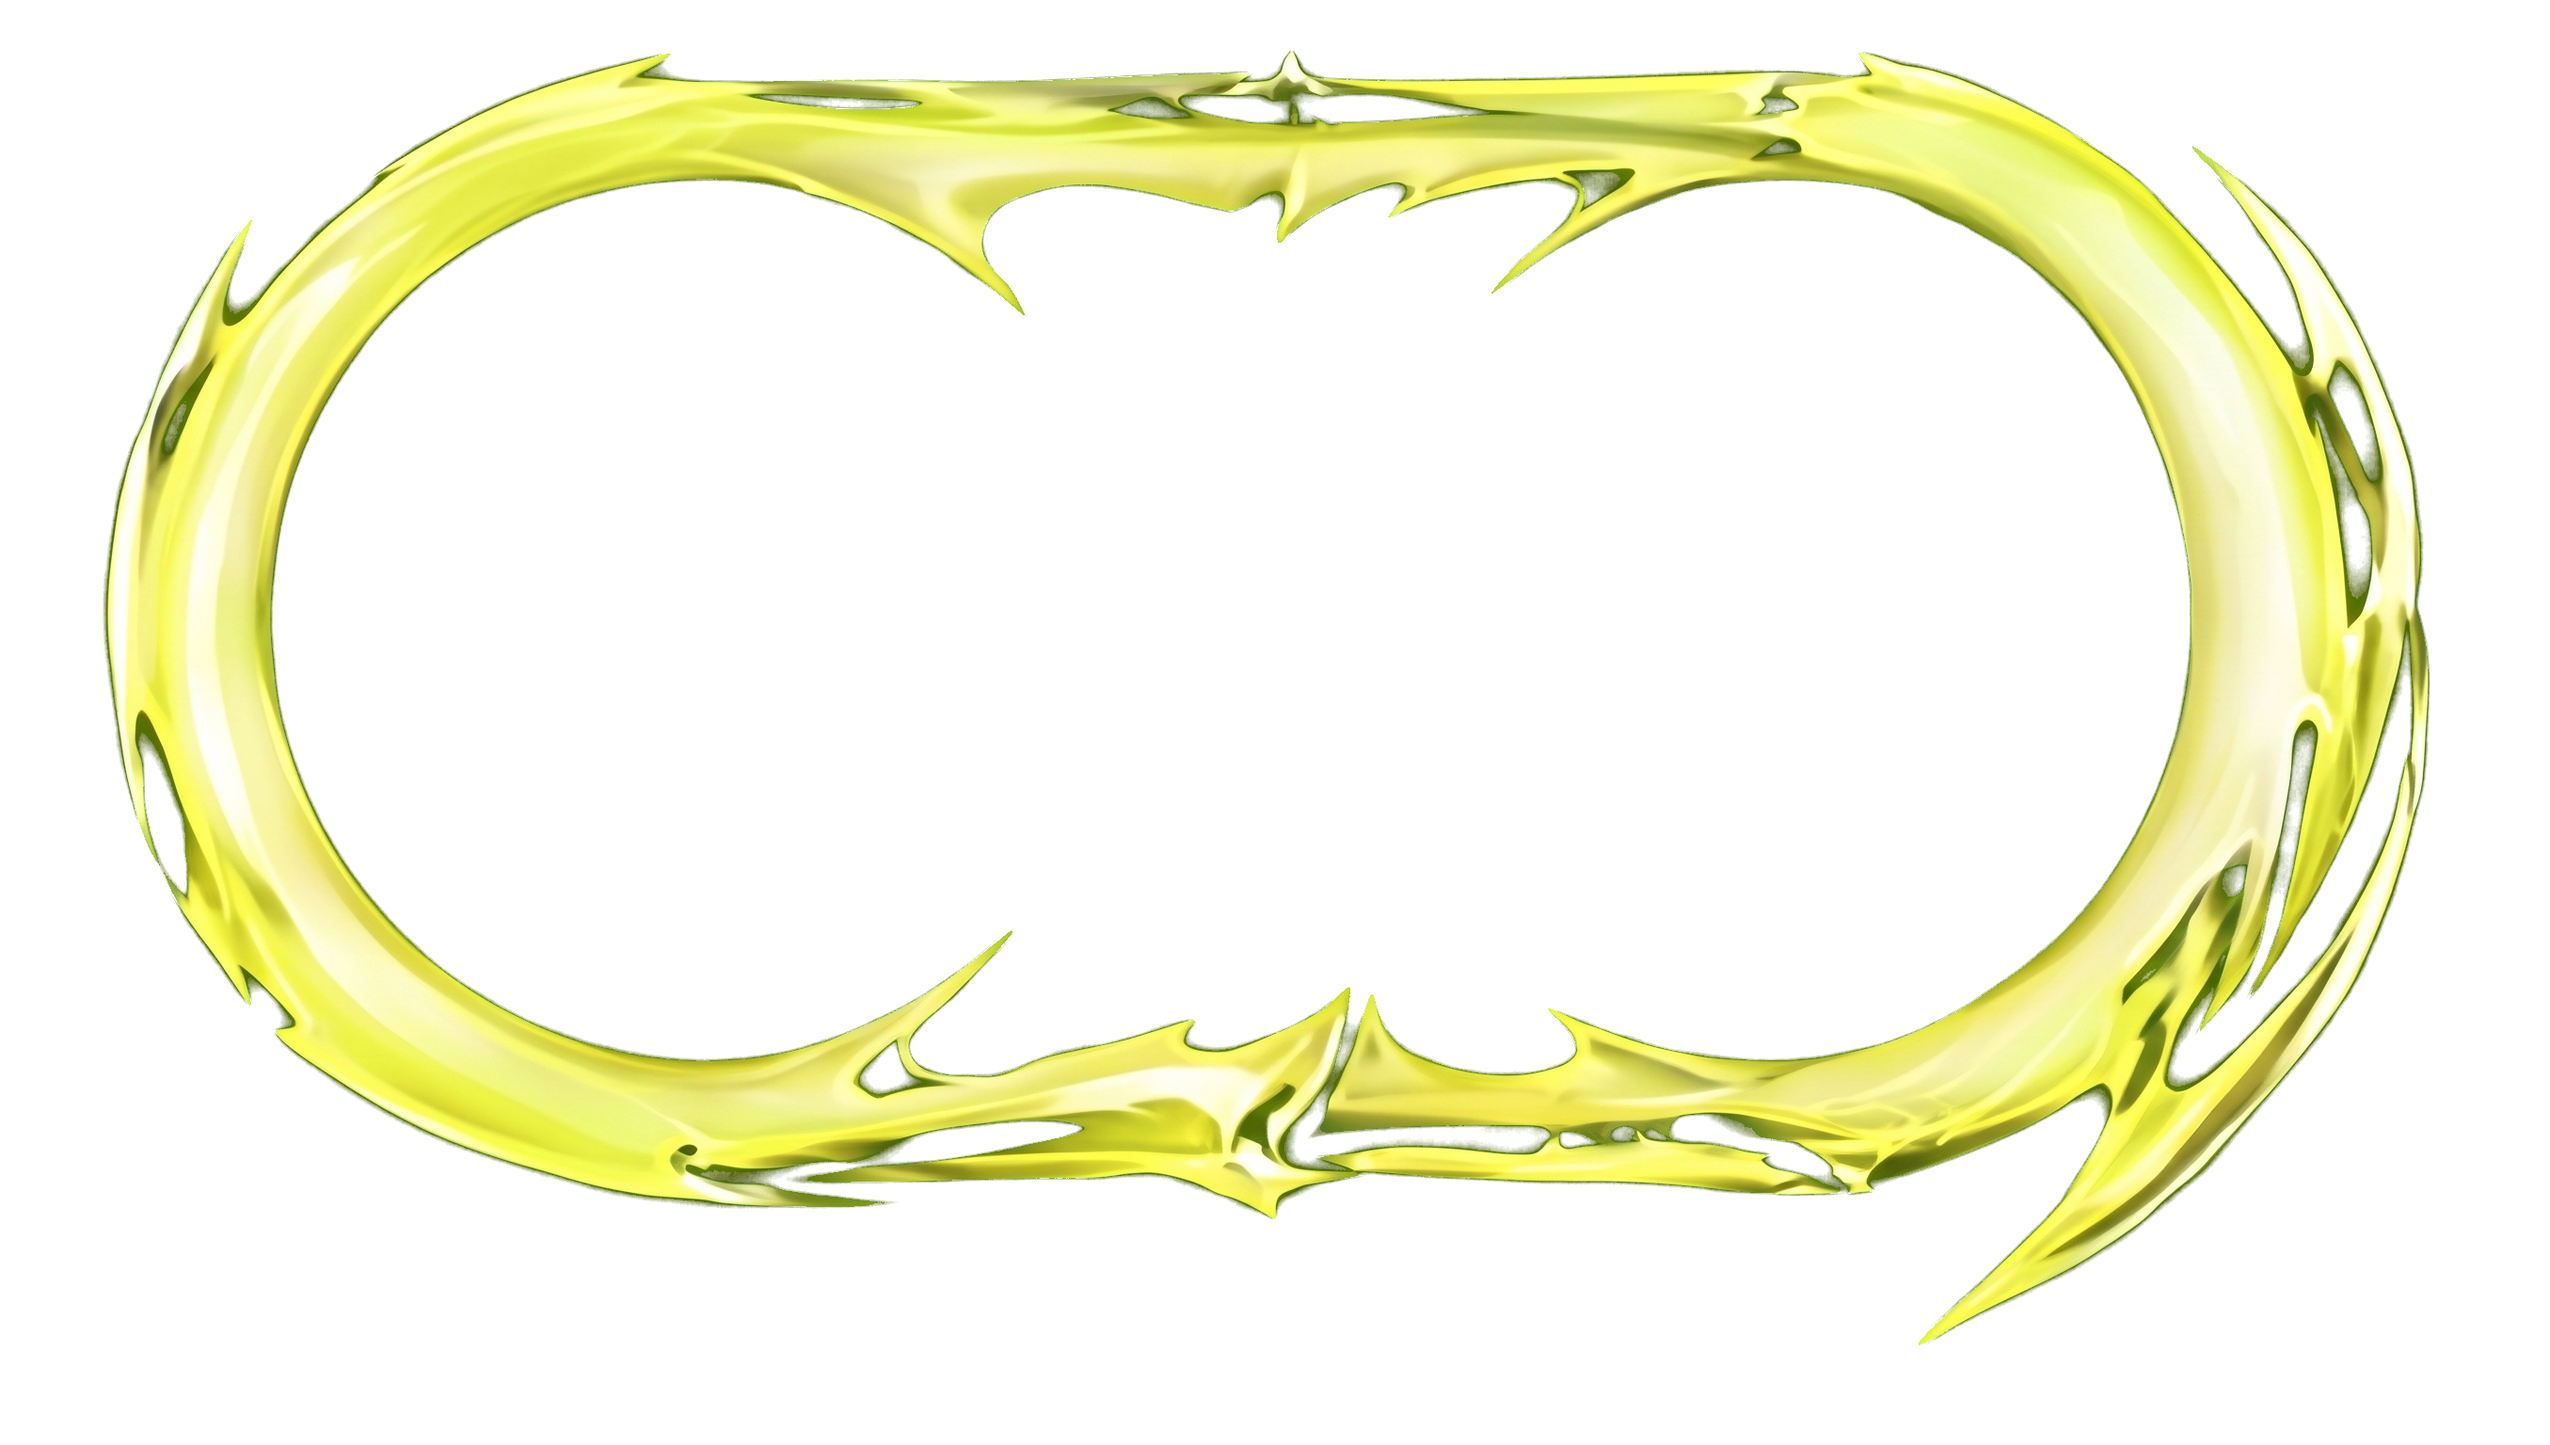
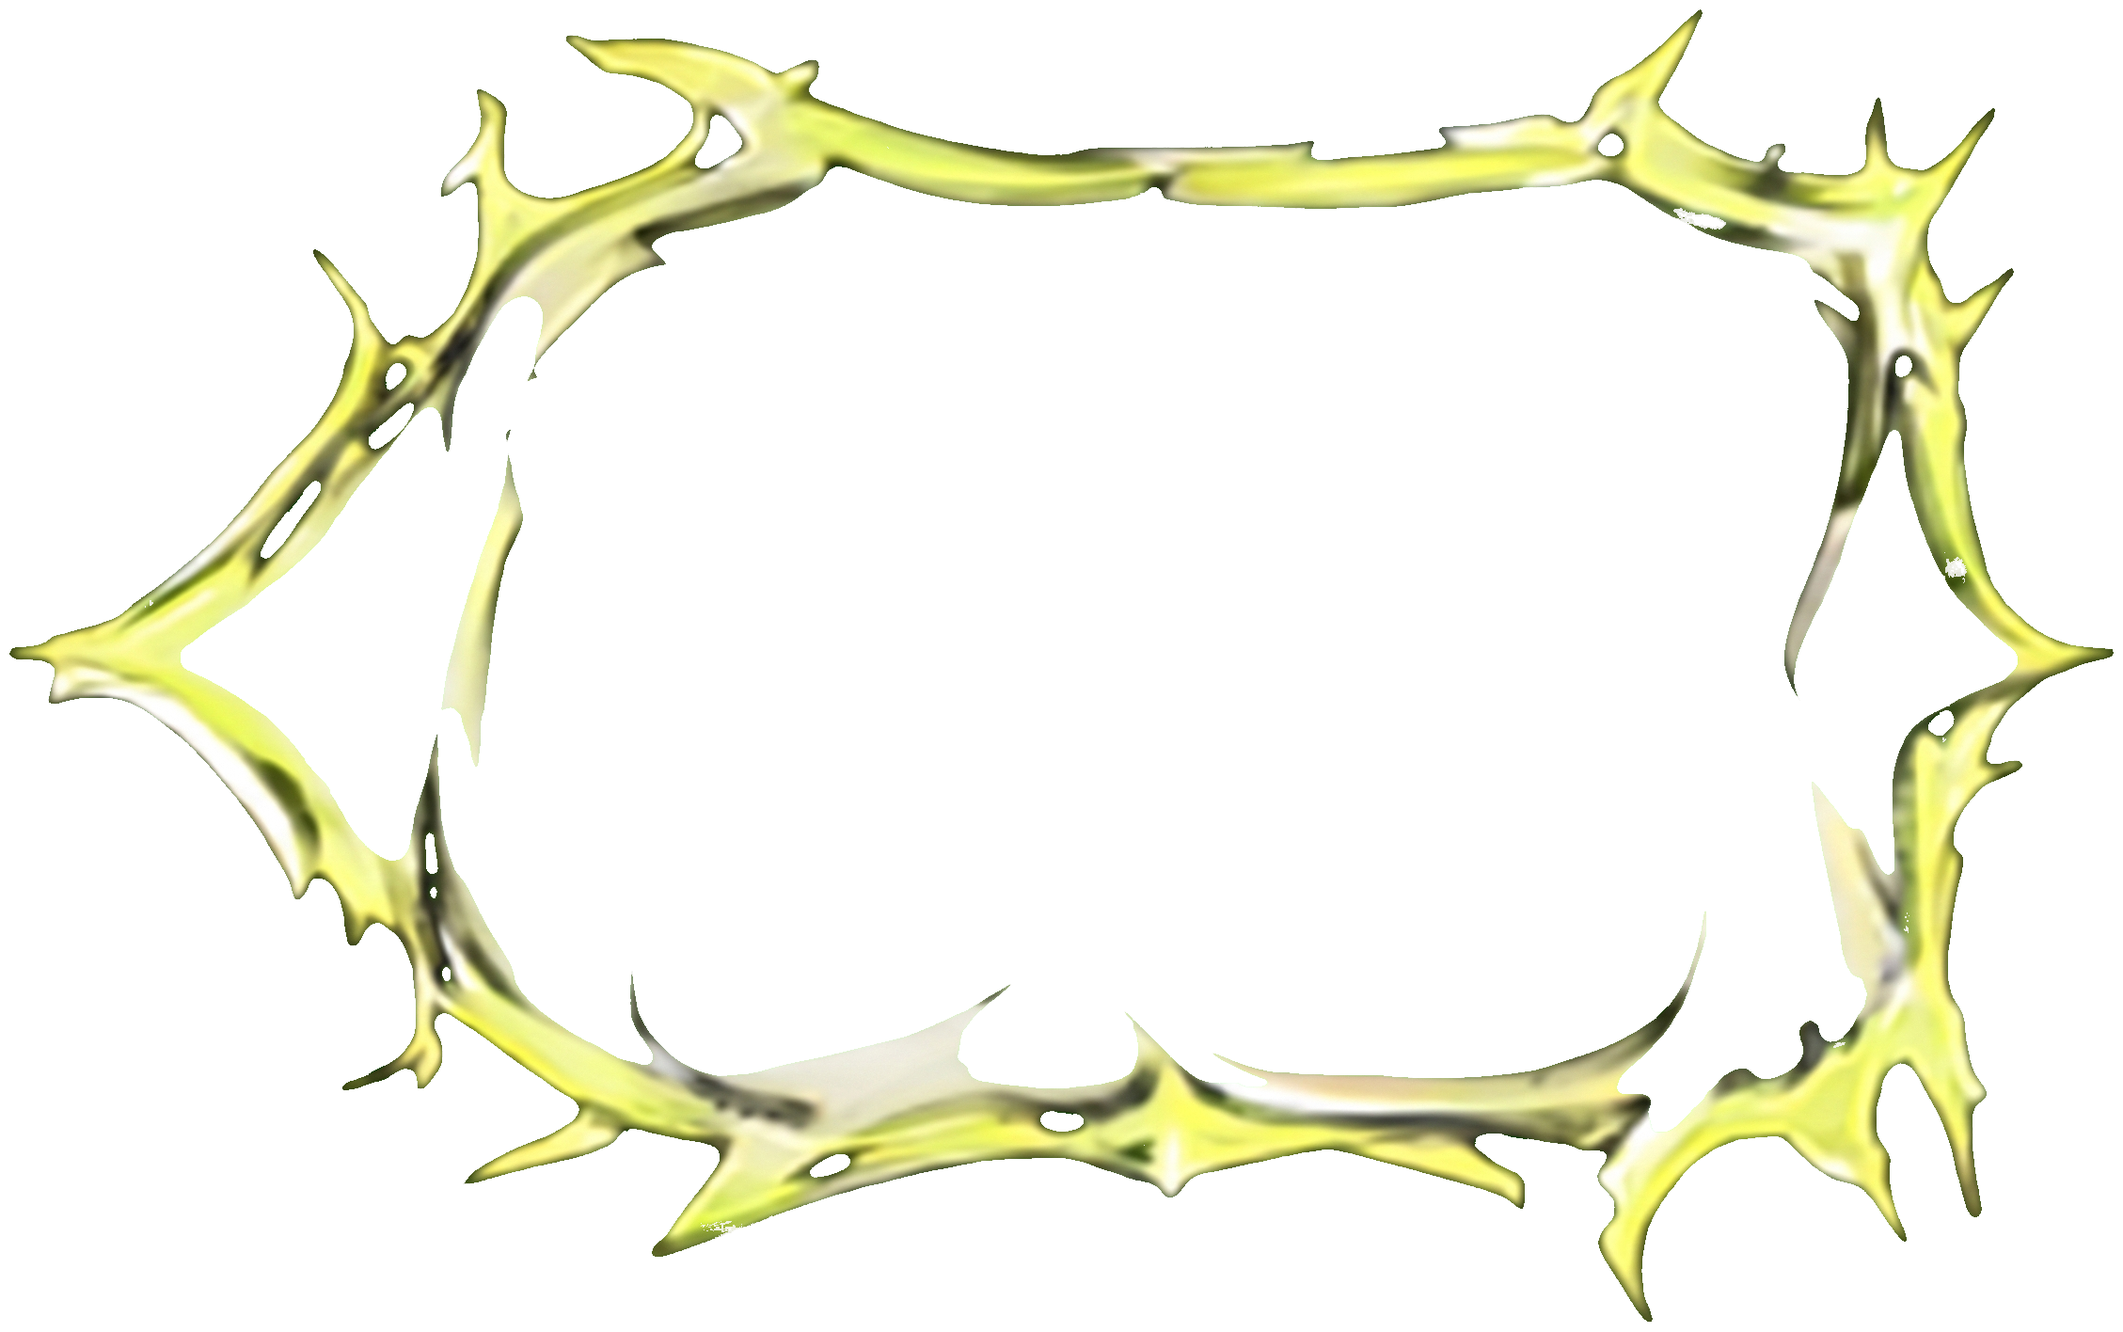
Split HUD ornament frames into editable layers

diff --git a/urban-legend-framework/index.html b/urban-legend-framework/index.html
@@ -622,6 +622,108 @@
     #loadout-bar{left:8px;right:8px;bottom:198px}
   }
 
+  /* Independent frame/content layout overrides.
+     These rules replace the earlier pseudo-element approach so the
+     admin editor can move/resize the ornament frame and the UI body
+     separately. */
+  #ui-frame-layer{position:fixed;inset:0;pointer-events:none;z-index:14}
+  .ui-deco-frame{position:fixed;left:50%;top:50%;transform:translate(-50%,-50%);pointer-events:none;
+    background-position:center;background-repeat:no-repeat;background-size:100% 100%}
+  .action-frame{background-image:url("img/action_frame_overlay.png");background-size:contain}
+  .hud-small-frame{background-image:url("img/hud_small_frame_overlay.png")}
+  .hud-coin-frame{background-image:url("img/hud_small_frame_overlay.png")}
+  .paint-frame{background-image:url("img/paint_bar_frame_overlay.png");background-size:contain}
+  #attack-btn::before,#jump-btn::before,#special-btn::before,
+  #kill-box::before,#coin-box::before,#shop-btn::before,
+  .loadout-slot::before,#paint-bar::before,#paint-bar::after{content:none!important;display:none!important}
+
+  #kill-box,#timer-box,#coin-box,#shop-btn,#paint-bar,#attack-btn,#jump-btn,#special-btn{
+    z-index:15!important;
+  }
+  #kill-box-frame{left:11%;top:9.6%;width:176px;height:96px}
+  #kill-box{left:11%;top:9.6%;width:118px!important;height:42px!important;padding:0 14px!important}
+  #timer-box-frame{left:50%;top:12.1%;width:246px;height:108px}
+  #timer-box{left:50%;top:12.1%;width:164px!important;height:38px!important;padding:0 14px!important;
+    font-size:clamp(11px,1.35vw,22px)!important}
+  #coin-box-frame{left:82.2%;top:9.6%;width:176px;height:96px}
+  #coin-box{left:82.2%;top:9.6%;width:118px!important;height:42px!important;padding:0 14px!important}
+  #shop-btn-frame{left:91%;top:10.2%;width:154px;height:84px}
+  #shop-btn{left:91%;top:10.2%;width:88px!important;height:34px!important;padding:0 10px!important}
+  #kill-box,#coin-box,#timer-box,#shop-btn{
+    display:inline-flex!important;align-items:center!important;justify-content:center!important;
+    box-sizing:border-box!important
+  }
+  #paint-bar-frame{left:5.6%;top:50%;width:74px;height:334px}
+  #paint-bar{left:5.6%;top:50%;width:74px!important;height:334px!important;background:transparent!important;
+    box-shadow:none!important;border-radius:0!important;overflow:visible!important}
+  #paint-bar-track{position:absolute;left:50%;top:18px;transform:translateX(-50%);width:22px;height:calc(100% - 54px);
+    border-radius:999px;overflow:hidden;background:linear-gradient(180deg,#ffbadf 0%,#ef76bc 100%);
+    box-shadow:inset 0 0 0 2px rgba(255,255,255,0.35),0 0 12px rgba(255,159,222,0.28)}
+  #paint-bar-fill{left:0;right:0;bottom:0;
+    background:linear-gradient(0deg,#ff4f9b 0%,#ff76bd 22%,#f8a4da 100%)!important;
+    box-shadow:0 -4px 12px rgba(255,255,255,0.55) inset!important}
+  #paint-bar-fill::before{display:none!important}
+  #paint-bar-label{bottom:2px!important;left:50%;transform:translateX(-50%);width:58px;
+    font-size:10px!important;letter-spacing:0.14em}
+
+  #special-btn-frame{left:74.6%;top:83.4%;width:152px;height:152px}
+  #special-btn{left:74.6%;top:83.4%;width:74px!important;height:74px!important}
+  #jump-btn-frame{left:84.8%;top:83.4%;width:152px;height:152px}
+  #jump-btn{left:84.8%;top:83.4%;width:74px!important;height:74px!important}
+  #attack-btn-frame{left:94.5%;top:83.4%;width:152px;height:152px}
+  #attack-btn{left:94.5%;top:83.4%;width:74px!important;height:74px!important}
+
+  #loadout-bar{position:static!important;left:auto!important;right:auto!important;bottom:auto!important;top:auto!important;
+    width:auto!important;height:auto!important;max-width:none!important;padding:0!important;background:none!important;
+    box-shadow:none!important;border:none!important;pointer-events:none!important;z-index:25}
+  .loadout-slot-frame{position:fixed;transform:translate(-50%,-50%);pointer-events:none;z-index:14;
+    background:url("img/skill_panel_frame_overlay.png") center/100% 100% no-repeat}
+  .loadout-slot{position:fixed!important;transform:translate(-50%,-50%)!important;min-height:0!important;height:148px!important;
+    width:106px!important;padding:12px 9px!important;border-radius:20px!important;z-index:15;pointer-events:auto;
+    box-sizing:border-box!important}
+  #soap-slot-frame{left:8.2%;top:73.5%;width:150px;height:200px}
+  #soap-slot-card{left:8.2%;top:73.5%}
+  #burst-slot-amber-frame{left:8.2%;top:90.2%;width:150px;height:200px}
+  #burst-slot-amber-card{left:8.2%;top:90.2%}
+  .loadout-slot.cleaner{width:106px!important}
+  .loadout-slot .slot-kind{font-size:10px!important}
+  .loadout-slot .slot-name{font-size:16px!important}
+  .loadout-slot .slot-meta{font-size:10px!important}
+  .loadout-slot .slot-icon{width:38px!important;height:38px!important}
+  .loadout-slot button{font-size:10px!important}
+
+  @media (max-width:640px){
+    #kill-box-frame{left:14%;top:5.4%;width:142px;height:76px}
+    #kill-box{left:14%;top:5.4%;width:96px!important;height:32px!important}
+    #timer-box-frame{left:50%;top:8.2%;width:188px;height:82px}
+    #timer-box{left:50%;top:8.2%;width:126px!important;height:28px!important;font-size:12px!important}
+    #coin-box-frame{left:74%;top:5.4%;width:142px;height:76px}
+    #coin-box{left:74%;top:5.4%;width:96px!important;height:32px!important}
+    #shop-btn-frame{left:86%;top:6.3%;width:124px;height:66px}
+    #shop-btn{left:86%;top:6.3%;width:72px!important;height:28px!important;font-size:10px!important}
+    #paint-bar-frame{left:8.5%;top:50%;width:58px;height:252px}
+    #paint-bar{left:8.5%;top:50%;width:58px!important;height:252px!important}
+    #paint-bar-track{top:16px;width:18px;height:calc(100% - 44px)}
+    #special-btn-frame{left:31.8%;top:90.3%;width:120px;height:120px}
+    #special-btn{left:31.8%;top:90.3%;width:56px!important;height:56px!important}
+    #jump-btn-frame{left:55.7%;top:90.3%;width:120px;height:120px}
+    #jump-btn{left:55.7%;top:90.3%;width:56px!important;height:56px!important}
+    #attack-btn-frame{left:78.4%;top:90.3%;width:120px;height:120px}
+    #attack-btn{left:78.4%;top:90.3%;width:56px!important;height:56px!important}
+    #soap-slot-frame{left:20%;top:71%;width:126px;height:170px}
+    #soap-slot-card{left:20%;top:71%;width:90px!important;height:126px!important}
+    #burst-slot-amber-frame{left:20%;top:87.5%;width:126px;height:170px}
+    #burst-slot-amber-card{left:20%;top:87.5%;width:90px!important;height:126px!important}
+    #loadout-bar .loadout-slot,#loadout-bar .loadout-slot-frame{
+      opacity:0;pointer-events:none;transition:opacity .22s ease,transform .22s ease;
+      transform:translate(-50%,12px)}
+    body.loadout-open #loadout-bar .loadout-slot,
+    body.loadout-open #loadout-bar .loadout-slot-frame{
+      opacity:1;pointer-events:auto;transform:translate(-50%,-50%)}
+  }
+  body.game-ended #ui-frame-layer,
+  body.game-ended #loadout-bar .loadout-slot-frame{display:none!important}
+
   /* Intro overlay */
   #intro{position:fixed;inset:0;background:radial-gradient(circle at 50% 50%,rgba(30,10,40,0.85),rgba(0,0,0,0.95));
     z-index:400;display:flex;align-items:center;justify-content:center;
@@ -927,8 +1029,21 @@
   <div class="hud-box" id="coin-box">&#x1FA99; <span id="coin-count">0</span></div>
 </div>
 
+<div id="ui-frame-layer" aria-hidden="true">
+  <div id="kill-box-frame" class="ui-deco-frame hud-coin-frame"></div>
+  <div id="timer-box-frame" class="ui-deco-frame hud-small-frame"></div>
+  <div id="coin-box-frame" class="ui-deco-frame hud-coin-frame"></div>
+  <div id="shop-btn-frame" class="ui-deco-frame hud-coin-frame"></div>
+  <div id="paint-bar-frame" class="ui-deco-frame paint-frame"></div>
+  <div id="special-btn-frame" class="ui-deco-frame action-frame"></div>
+  <div id="jump-btn-frame" class="ui-deco-frame action-frame"></div>
+  <div id="attack-btn-frame" class="ui-deco-frame action-frame"></div>
+</div>
+
 <div id="paint-bar">
-  <div id="paint-bar-fill"></div>
+  <div id="paint-bar-track">
+    <div id="paint-bar-fill"></div>
+  </div>
   <div id="paint-bar-label">0/10</div>
 </div>
 
@@ -5280,15 +5395,26 @@ const UI_LAYOUT_DEFAULTS={
   mobile:{},
 };
 const UI_LAYOUT_TARGET_DEFS=[
-  {id:'kill-box',label:'artist',anchor:'center',minW:84,minH:32},
-  {id:'timer-box',label:'timer',anchor:'center',minW:96,minH:32},
-  {id:'coin-box',label:'coin',anchor:'center',minW:84,minH:32},
-  {id:'shop-btn',label:'shop',anchor:'center',minW:84,minH:34},
-  {id:'paint-bar',label:'paint',anchor:'center',minW:12,minH:120},
-  {id:'loadout-bar',label:'loadout',anchor:'topLeft',minW:120,minH:72},
-  {id:'special-btn',label:'skill',anchor:'center',minW:42,minH:42},
-  {id:'jump-btn',label:'jump',anchor:'center',minW:42,minH:42},
-  {id:'attack-btn',label:'punch',anchor:'center',minW:42,minH:42},
+  {id:'kill-box-frame',label:'artist frame',anchor:'center',minW:80,minH:40},
+  {id:'kill-box',label:'artist',anchor:'center',minW:40,minH:18},
+  {id:'timer-box-frame',label:'timer frame',anchor:'center',minW:90,minH:40},
+  {id:'timer-box',label:'timer',anchor:'center',minW:40,minH:18},
+  {id:'coin-box-frame',label:'coin frame',anchor:'center',minW:80,minH:40},
+  {id:'coin-box',label:'coin',anchor:'center',minW:40,minH:18},
+  {id:'shop-btn-frame',label:'shop frame',anchor:'center',minW:72,minH:36},
+  {id:'shop-btn',label:'shop',anchor:'center',minW:36,minH:18},
+  {id:'paint-bar-frame',label:'paint frame',anchor:'center',minW:30,minH:120},
+  {id:'paint-bar',label:'paint',anchor:'center',minW:12,minH:80},
+  {id:'soap-slot-frame',label:'soap frame',anchor:'center',minW:72,minH:96},
+  {id:'soap-slot-card',label:'soap card',anchor:'center',minW:54,minH:72},
+  {id:'burst-slot-amber-frame',label:'fx frame',anchor:'center',minW:72,minH:96},
+  {id:'burst-slot-amber-card',label:'fx card',anchor:'center',minW:54,minH:72},
+  {id:'special-btn-frame',label:'skill frame',anchor:'center',minW:56,minH:56},
+  {id:'special-btn',label:'skill btn',anchor:'center',minW:24,minH:24},
+  {id:'jump-btn-frame',label:'jump frame',anchor:'center',minW:56,minH:56},
+  {id:'jump-btn',label:'jump btn',anchor:'center',minW:24,minH:24},
+  {id:'attack-btn-frame',label:'punch frame',anchor:'center',minW:56,minH:56},
+  {id:'attack-btn',label:'punch btn',anchor:'center',minW:24,minH:24},
 ];
 const uiLayoutState={active:false,config:loadUILayoutConfig(),editor:null,overlays:new Map(),drag:null,toastTimer:0,exportButton:null,modal:null,forcedMode:null};
 window.__uiLayoutConfig=uiLayoutState.config;
@@ -5714,7 +5840,8 @@ function renderLoadoutBar(){
   if(debugCheatMode) applyCheatInventory();
   const parts=[];
   parts.push(
-    `<div class="loadout-slot cleaner">
+    `<div id="soap-slot-frame" class="loadout-slot-frame"></div>
+    <div class="loadout-slot cleaner" id="soap-slot-card">
       <div class="slot-kind">UTILITY</div>
       <div class="slot-icon">${getSkillIconSafe('soap','utility')}</div>
       <div class="slot-name">SOAP</div>
@@ -5726,7 +5853,8 @@ function renderLoadoutBar(){
     if(!purchasedBurstEffects.has(item.id)) continue;
     const active=item.id===equippedBurstEffect?' active':'';
     parts.push(
-      `<div class="loadout-slot burst-slot${active}" data-burst-slot="${item.id}">
+      `<div id="burst-slot-${item.id}-frame" class="loadout-slot-frame"></div>
+      <div class="loadout-slot burst-slot${active}" id="burst-slot-${item.id}-card" data-burst-slot="${item.id}">
         <div class="slot-kind">BURST FX</div>
         <div class="slot-icon">${item.icon||getSkillIconSafe(item.id,'burst')}</div>
         <div class="slot-name">${item.name}</div>
@@ -5769,6 +5897,7 @@ function renderLoadoutBar(){
       if(mobileLoadoutQuery.matches) setLoadoutExpanded(false);
     });
   });
+  applyUILayoutConfig();
 }
 
 function renderShopState(){

diff --git a/tools/build_ui_overlays.py b/tools/build_ui_overlays.py
@@ -1,0 +1,70 @@
+from __future__ import annotations
+
+from pathlib import Path
+
+from PIL import Image
+
+
+ROOT = Path(__file__).resolve().parents[1]
+SRC_DIR = ROOT.parent
+OUT_DIR = ROOT / "urban-legend-framework" / "img"
+
+
+def chroma_key(img: Image.Image) -> Image.Image:
+    img = img.convert("RGBA")
+    out = Image.new("RGBA", img.size)
+    src = img.load()
+    dst = out.load()
+    w, h = img.size
+    for y in range(h):
+        for x in range(w):
+            r, g, b, a = src[x, y]
+            green_gap = g - max(r, b)
+            if g > 70 and green_gap > 22:
+                alpha = max(0, min(255, 255 - green_gap * 9))
+                if alpha < 18:
+                    dst[x, y] = (0, 0, 0, 0)
+                    continue
+                dst[x, y] = (r, min(g, max(r, b) + 10), b, alpha)
+                continue
+            dst[x, y] = (r, g, b, a)
+    return out
+
+
+def crop_to_alpha(img: Image.Image, pad: int = 0) -> Image.Image:
+    bbox = img.getbbox()
+    if not bbox:
+        return img
+    left = max(0, bbox[0] - pad)
+    top = max(0, bbox[1] - pad)
+    right = min(img.width, bbox[2] + pad)
+    bottom = min(img.height, bbox[3] + pad)
+    return img.crop((left, top, right, bottom))
+
+
+def build_one(src_name: str, out_name: str, pad: int = 10) -> None:
+    src = SRC_DIR / src_name
+    out = OUT_DIR / out_name
+    img = Image.open(src)
+    img = chroma_key(img)
+    img = crop_to_alpha(img, pad=pad)
+    out.parent.mkdir(parents=True, exist_ok=True)
+    img.save(out)
+    print(f"built {out_name}: {img.size}")
+
+
+def main() -> None:
+    jobs = [
+        ("\u80cc\u666f\u88dd\u98fe\u5916\u6846.png", "viewport_frame_overlay.png", 8),
+        ("\u53f3\u4e0b\u6309\u9215.png", "action_frame_overlay.png", 10),
+        ("\u5de6\u5074\u5f69\u8679\u503cbar.png", "paint_bar_frame_overlay.png", 8),
+        ("\u6280\u80fd\u8868.png", "skill_panel_frame_overlay.png", 10),
+        ("SHOP\u88dd\u98fe\u6846.png", "hud_small_frame_overlay.png", 10),
+        ("COIN\u6578\u85dd\u8853\u5bb6\u6578.png", "hud_coin_shop_frame_overlay.png", 10),
+    ]
+    for src_name, out_name, pad in jobs:
+        build_one(src_name, out_name, pad)
+
+
+if __name__ == "__main__":
+    main()
